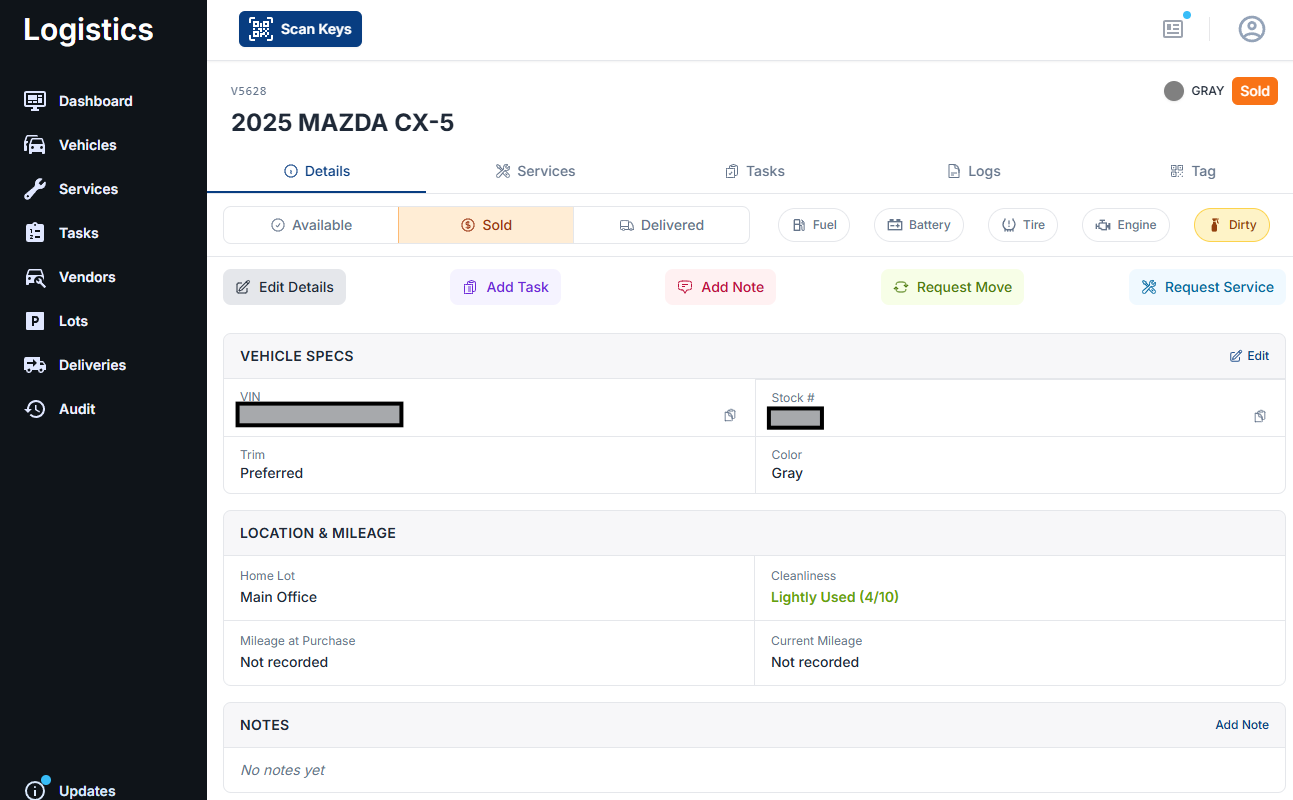
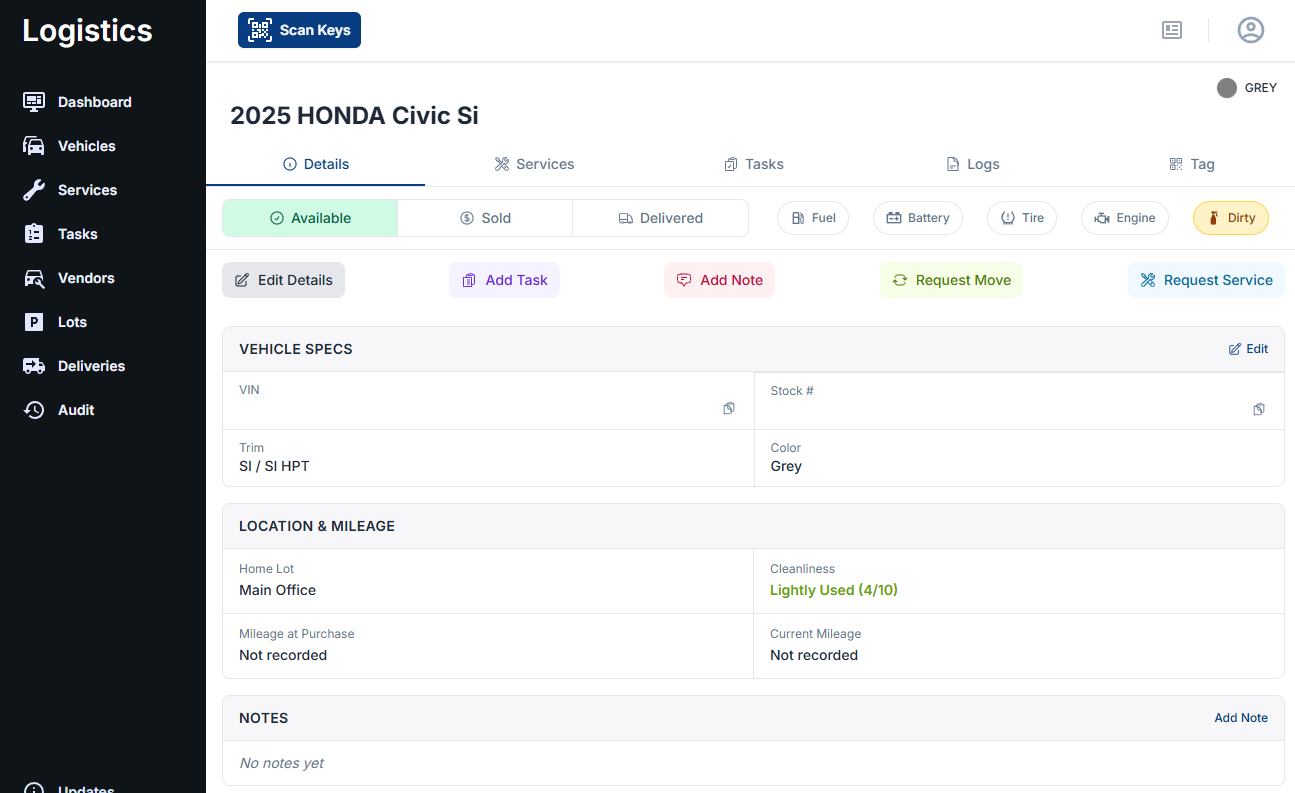
content(work): redact Carevo screenshot, fix full-stack wrap, add highlight field
- Replace the Carevo vehicle-detail screenshot with the version that
  has VIN and stock # properly redacted.
- Swap the regular hyphen in 'full-stack' for a non-breaking hyphen
  (U+2011) in every role field that uses it (Carevo, TechCentral,
  Summit, EAEO). 'full-stack' now stays glued in the case-study
  sidebar where the column is narrow enough to wrap on it.
- Add an optional 'highlight' field to the work content schema and
  render it as a small italic line under the outcome on the /work
  list view. Lets a project surface a single load-bearing piece of
  context that doesn't fit in the headline or outcome.
- Use it on Carevo: 'Shipped to MVP in four months - pre-AI-revolution,
  one line at a time. Maintained continuously since.'
- Add a 'A note on the build' section to the Carevo case study
  expanding on the four-month MVP timeline, the pre-AI-tools build
  context, and what that says about the parts that have aged well.

diff --git a/src/content.config.ts b/src/content.config.ts
@@ -35,6 +35,7 @@ const work = defineCollection({
 			heroImage: z.optional(image()),
 			liveUrl: z.url().optional(),
 			repoUrl: z.url().optional(),
+			highlight: z.string().optional(),
 		}),
 });
 